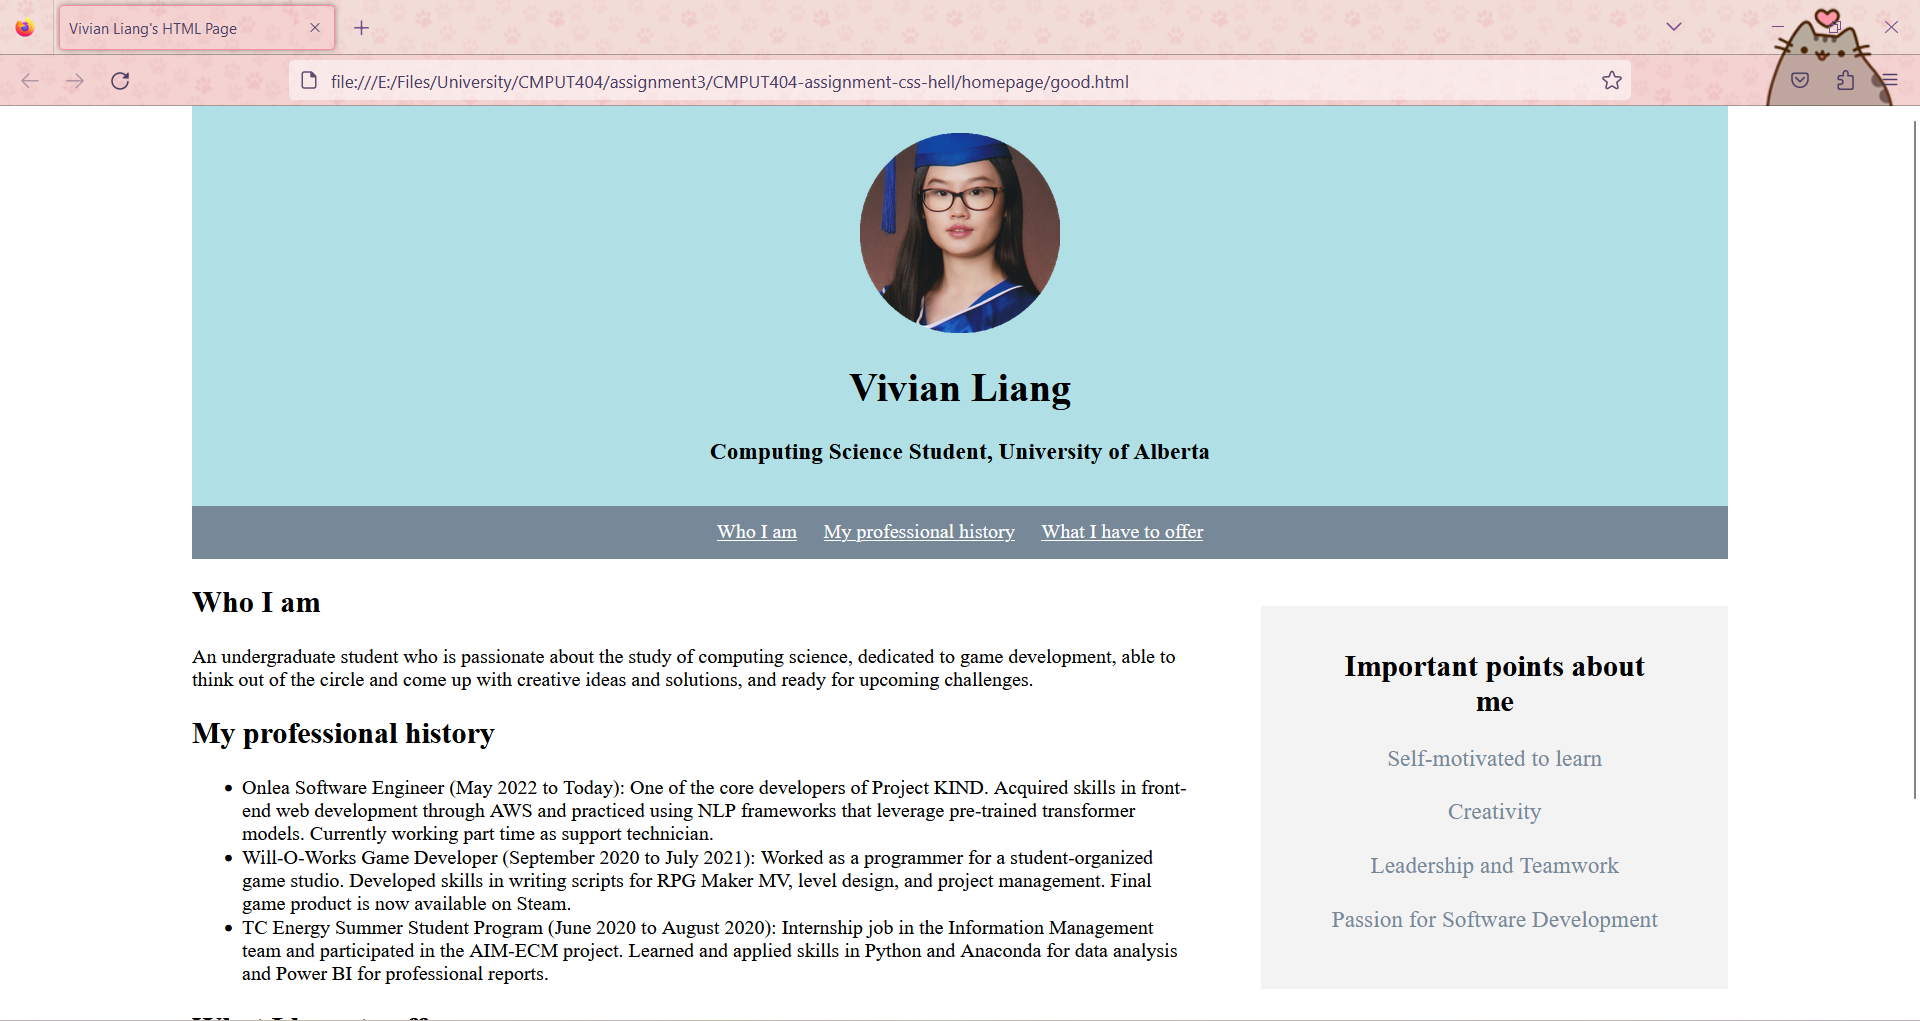
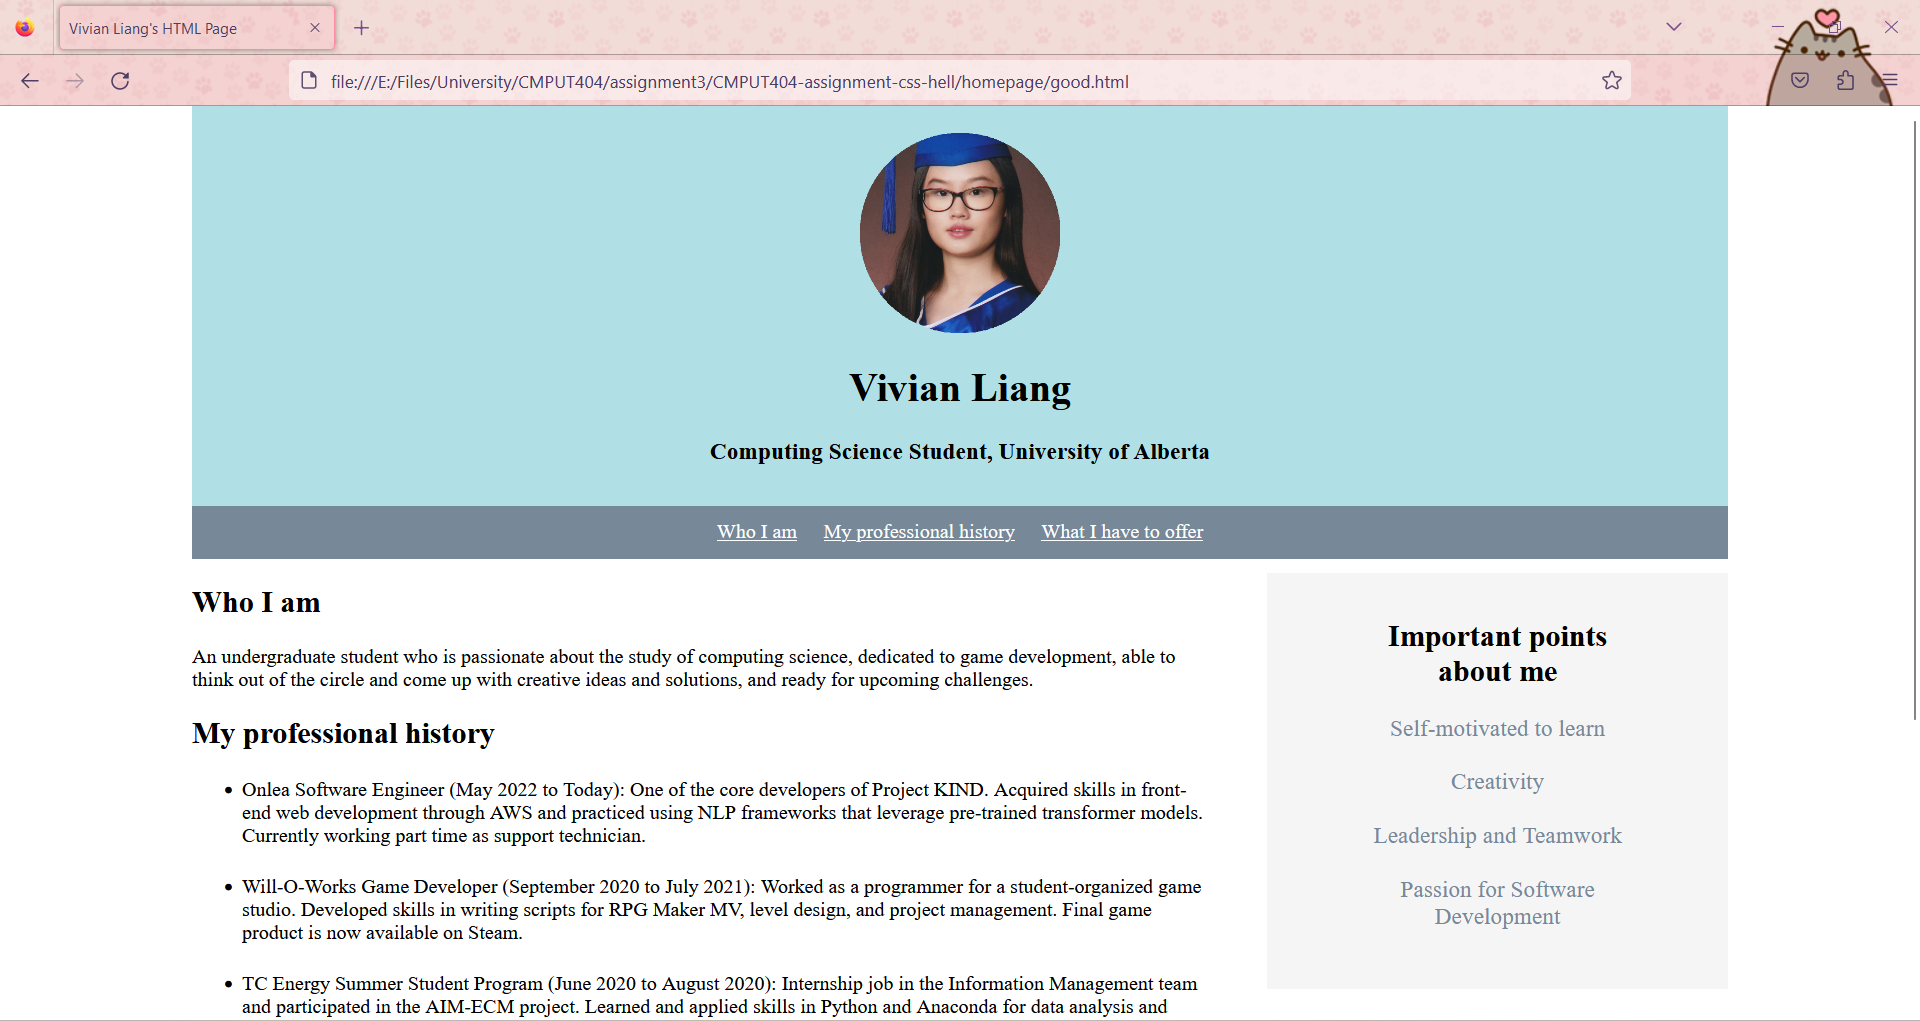
Update good.css

Changed region(s): [[0.125, 0.7591, 0.625, 1.0], [0.6875, 0.6072, 0.875, 0.9109]]

diff --git a/homepage/good.css b/homepage/good.css
@@ -4,7 +4,7 @@ body {
     background-color: white;
 }
 main {
-    margin-right: 320pt; 
+    margin-right: 34%; 
 }
 header {
     height: 240pt;
@@ -19,7 +19,6 @@ header {
     text-align: center;
     margin-bottom: 10pt;
 }
-/* Reference: https://stackoverflow.com/questions/7282236/placing-an-image-to-the-top-right-corner-css */
 img {
     margin-top: 16pt;
     max-height: 50%;
@@ -31,6 +30,9 @@ nav {
     background-color: lightslategrey;
     text-align: center;
 }
+li {
+    margin: 16pt 0;
+}
 /* Reference: https://www.w3schools.com/css/css_navbar_horizontal.asp */
 nav ul {
     display: inline-block;
@@ -41,6 +43,7 @@ nav ul {
 }
 nav li {
     float: left;
+    margin: 0;
 }
 nav a {
     display: block;
@@ -51,28 +54,27 @@ nav a {
 /* Reference: https://www.w3schools.com/howto/howto_css_fixed_sidebar.asp */
 aside {
     color: black; 
-    height: 220pt; 
-    width: 280pt; 
+    width: 24%; 
     position: absolute; 
     z-index: 1;
-    top: 300pt; 
+    top: 280pt; 
     right: 10%;
-    background-color: rgb(243, 243, 243); 
+    background-color: whitesmoke; 
     overflow-x: hidden; 
-    padding-top: 10pt;
+    padding-top: 12pt;
+    padding-bottom: 20pt;
     text-align: center;
 }
 aside h2 {
-    padding-left: 40pt;
-    padding-right: 40pt;
+    padding-left: 20%;
+    padding-right: 20%;
 }
 aside ul {
-    padding-left: 40pt;
-    padding-right: 40pt;
+    padding-left: 20%;
+    padding-right: 20%;
     list-style-type: none;
 }
 aside li {
     color: lightslategrey;
-    font-size: 14pt; 
-    margin: 16pt 0;
+    font-size: 14pt;
 }
